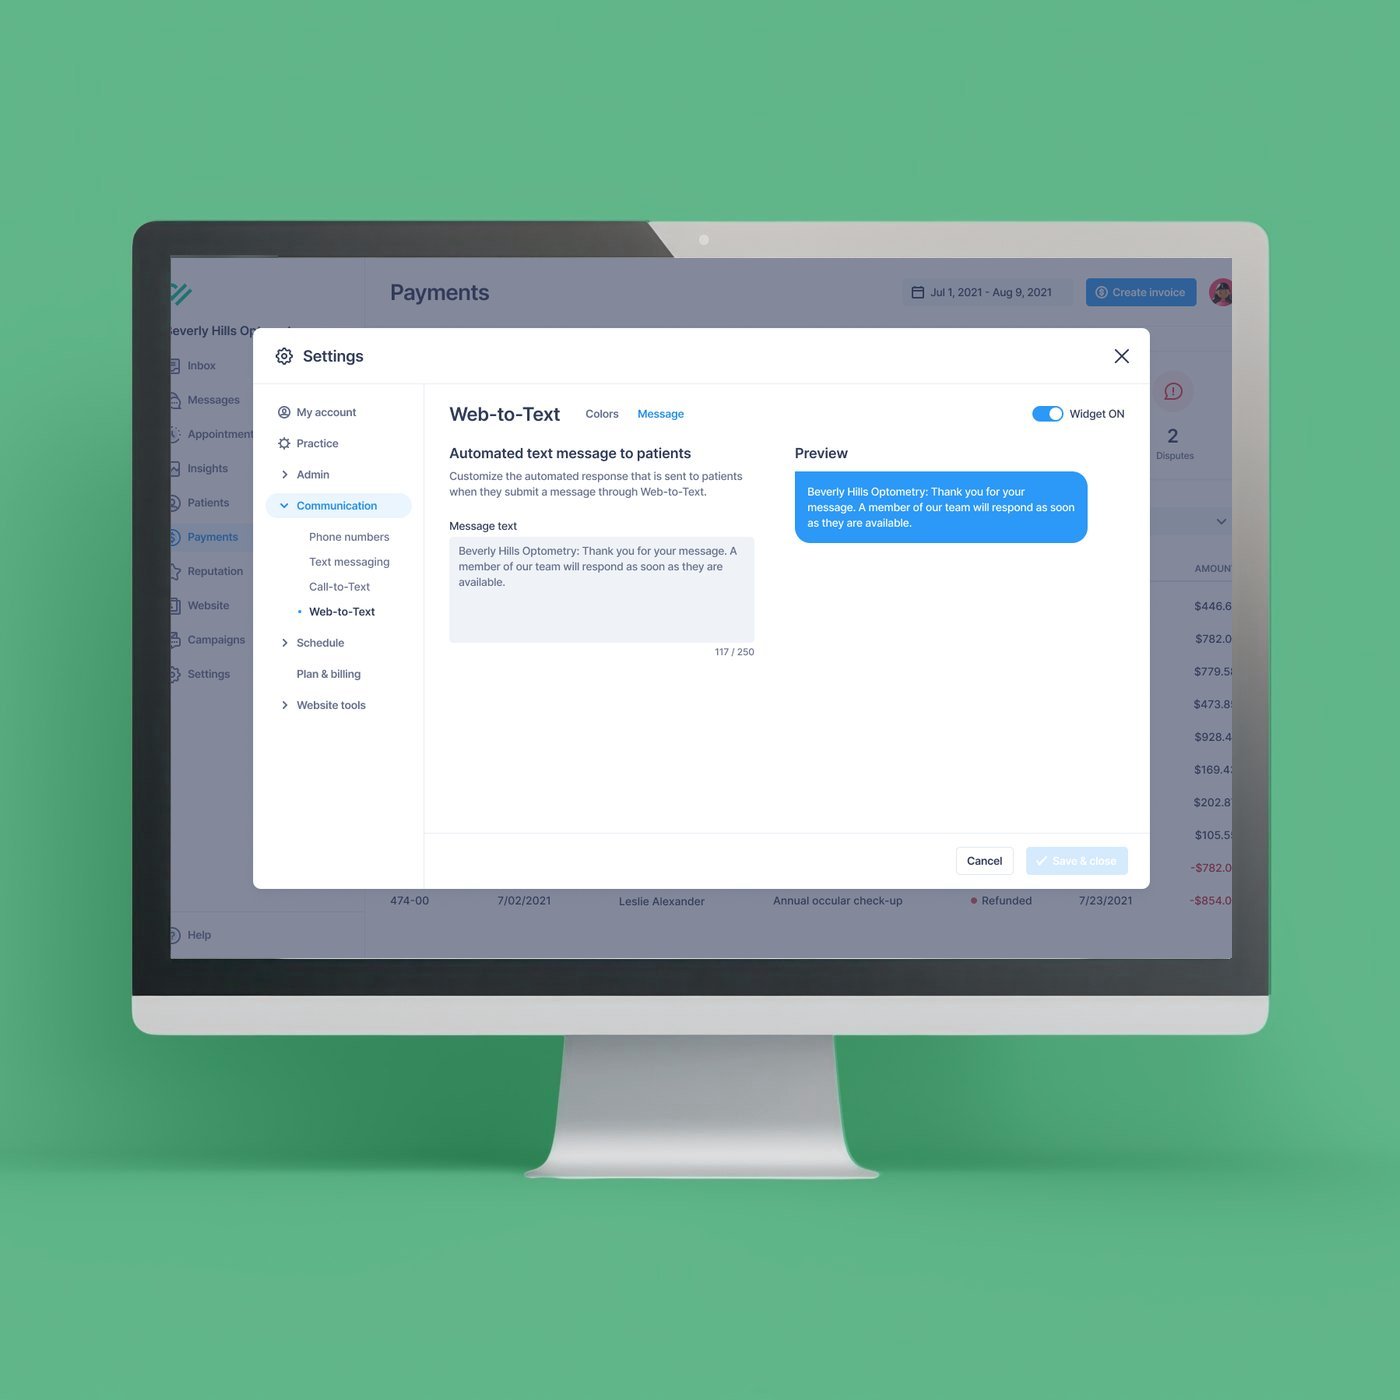
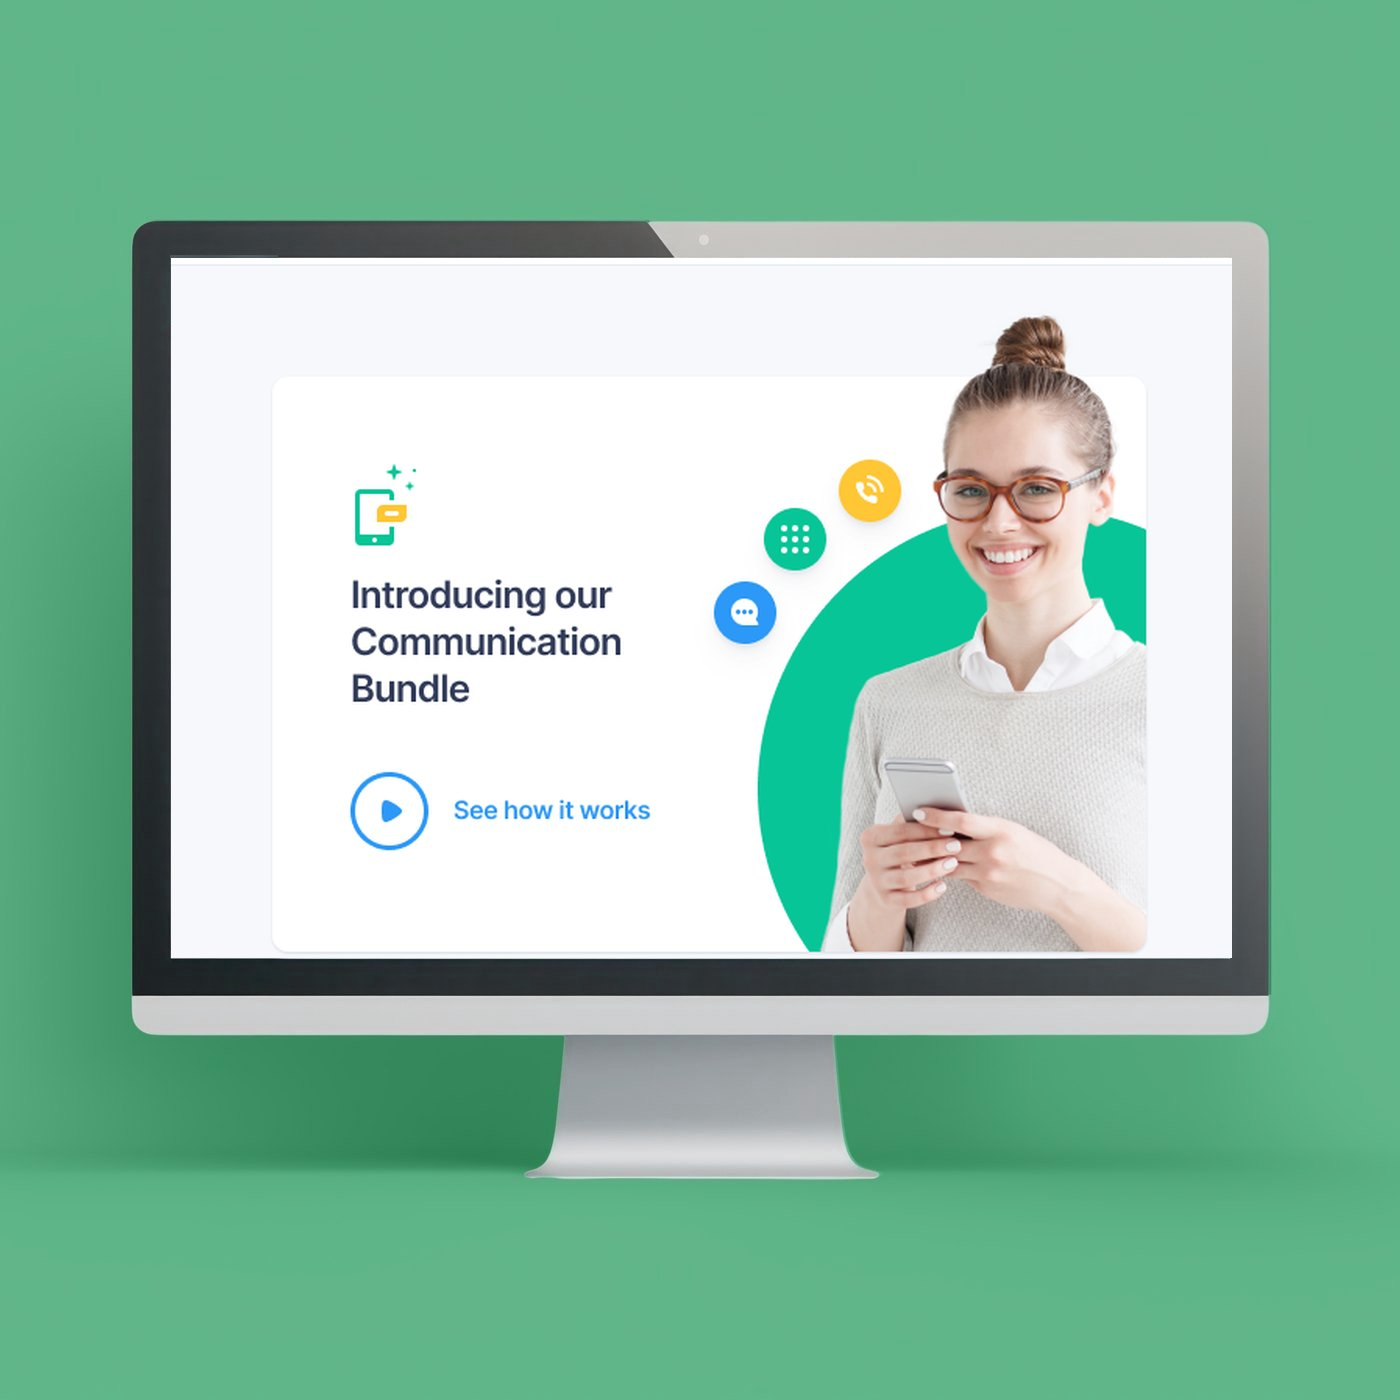
PatientPop: onboarding setup screens and new thumbnail
Claude-Session: https://claude.ai/code/session_019aWtwmYqNC731jg8akbUEf

Changed region(s): [[0.1229, 0.1843, 0.8907, 0.7064]]

diff --git a/patientpop-connect.html b/patientpop-connect.html
@@ -755,6 +755,12 @@
   .pp-shot img,.pp-shot video{width:100%;display:block;border-radius:10px;border:1px solid rgba(0,0,0,.08);box-shadow:0 8px 24px rgba(0,0,0,.18);background:#fff}
   body.light-mode .pp-shot img,body.light-mode .pp-shot video{box-shadow:0 6px 18px rgba(0,0,0,.08)}
   .pp-shot + p, .cd-gallery + p, .pp-phones + p { margin-top: 32px; }
+  .pp-grid2{display:grid;grid-template-columns:1fr 1fr;gap:18px;margin:32px 0 8px}
+  @media (max-width:760px){.pp-grid2{grid-template-columns:1fr}}
+  .pp-grid2 figure{margin:0}
+  .pp-grid2 img{width:100%;display:block;border-radius:10px;border:1px solid rgba(0,0,0,.08);box-shadow:0 8px 24px rgba(0,0,0,.18)}
+  body.light-mode .pp-grid2 img{box-shadow:0 6px 18px rgba(0,0,0,.08)}
+  .pp-grid2 figcaption{font-size:13px;color:var(--text-dim);margin-top:8px;line-height:1.45}
 </style>
 </head>
 <body>
@@ -899,6 +905,12 @@
       <p>We created an onboarding video that explained what would change and how it would affect the practice. I helped write the script and tested it with users, changing it based on what they understood and what resonated with them. When we tested the video, practices understood the implications, although some still had concerns.</p>
       <p>We also provided guidance for communicating the change to patients and offered some practices the option of keeping both numbers. We explored allowing practices to activate Connect without immediately enabling the automated attendant.</p>
       <p>We wanted practices considering the upgrade to understand how their phone numbers would change and what that meant for their patients before making a decision.</p>
+      <div class="pp-grid2">
+        <figure><img src="pp-setup-start.jpg" alt="Communication Setup start page: Never miss out on a patient lead, with a video link" loading="lazy"><figcaption>The start page, with the onboarding video</figcaption></figure>
+        <figure><img src="pp-setup-step1.jpg" alt="Step 1: Get more website leads by enabling messaging" loading="lazy"><figcaption>Step 1: Turn on messaging</figcaption></figure>
+        <figure><img src="pp-setup-step2.jpg" alt="Step 2: Test the auto attendant by calling the practice's number" loading="lazy"><figcaption>Step 2: Call the new number to test it</figcaption></figure>
+        <figure><img src="pp-setup-step3.jpg" alt="Step 3: Activate auto attendant for each location, with each location's voice and text number" loading="lazy"><figcaption>Step 3: Activate each location and see its number</figcaption></figure>
+      </div>
       <figure class="pp-shot"><video controls preload="none" playsinline poster="pp-connect-video-poster.jpg"><source src="pp-connect-video.mp4" type="video/mp4"></video><figcaption>The onboarding video practices watched before turning on Connect.</figcaption></figure>
     </section>
 

diff --git a/index.html b/index.html
@@ -833,7 +833,7 @@
 
       <a class="case-card" href="patientpop-connect.html">
         <div class="case-img">
-          <img src="patientpop-thumb.jpg" alt="Inbox conversations labeled as new patient, returning patient, and other leads from Web-to-Text" style="object-fit:cover; object-position: center;">
+          <img src="patientpop-thumb.jpg" alt="Monitor showing the Communication Bundle introduction with a woman holding a phone" style="object-fit:cover; object-position: center;">
         <div class="case-img-arrow"><svg viewBox="0 0 24 24" fill="none" stroke="#0a0a0a" stroke-width="2.5" stroke-linecap="round" stroke-linejoin="round"><line x1="7" y1="17" x2="17" y2="7"/><polyline points="7 7 17 7 17 17"/></svg></div></div>
         <p class="case-num">PatientPop Connect</p>
         <h3 class="case-title">Making text messaging work for more practices</h3>
